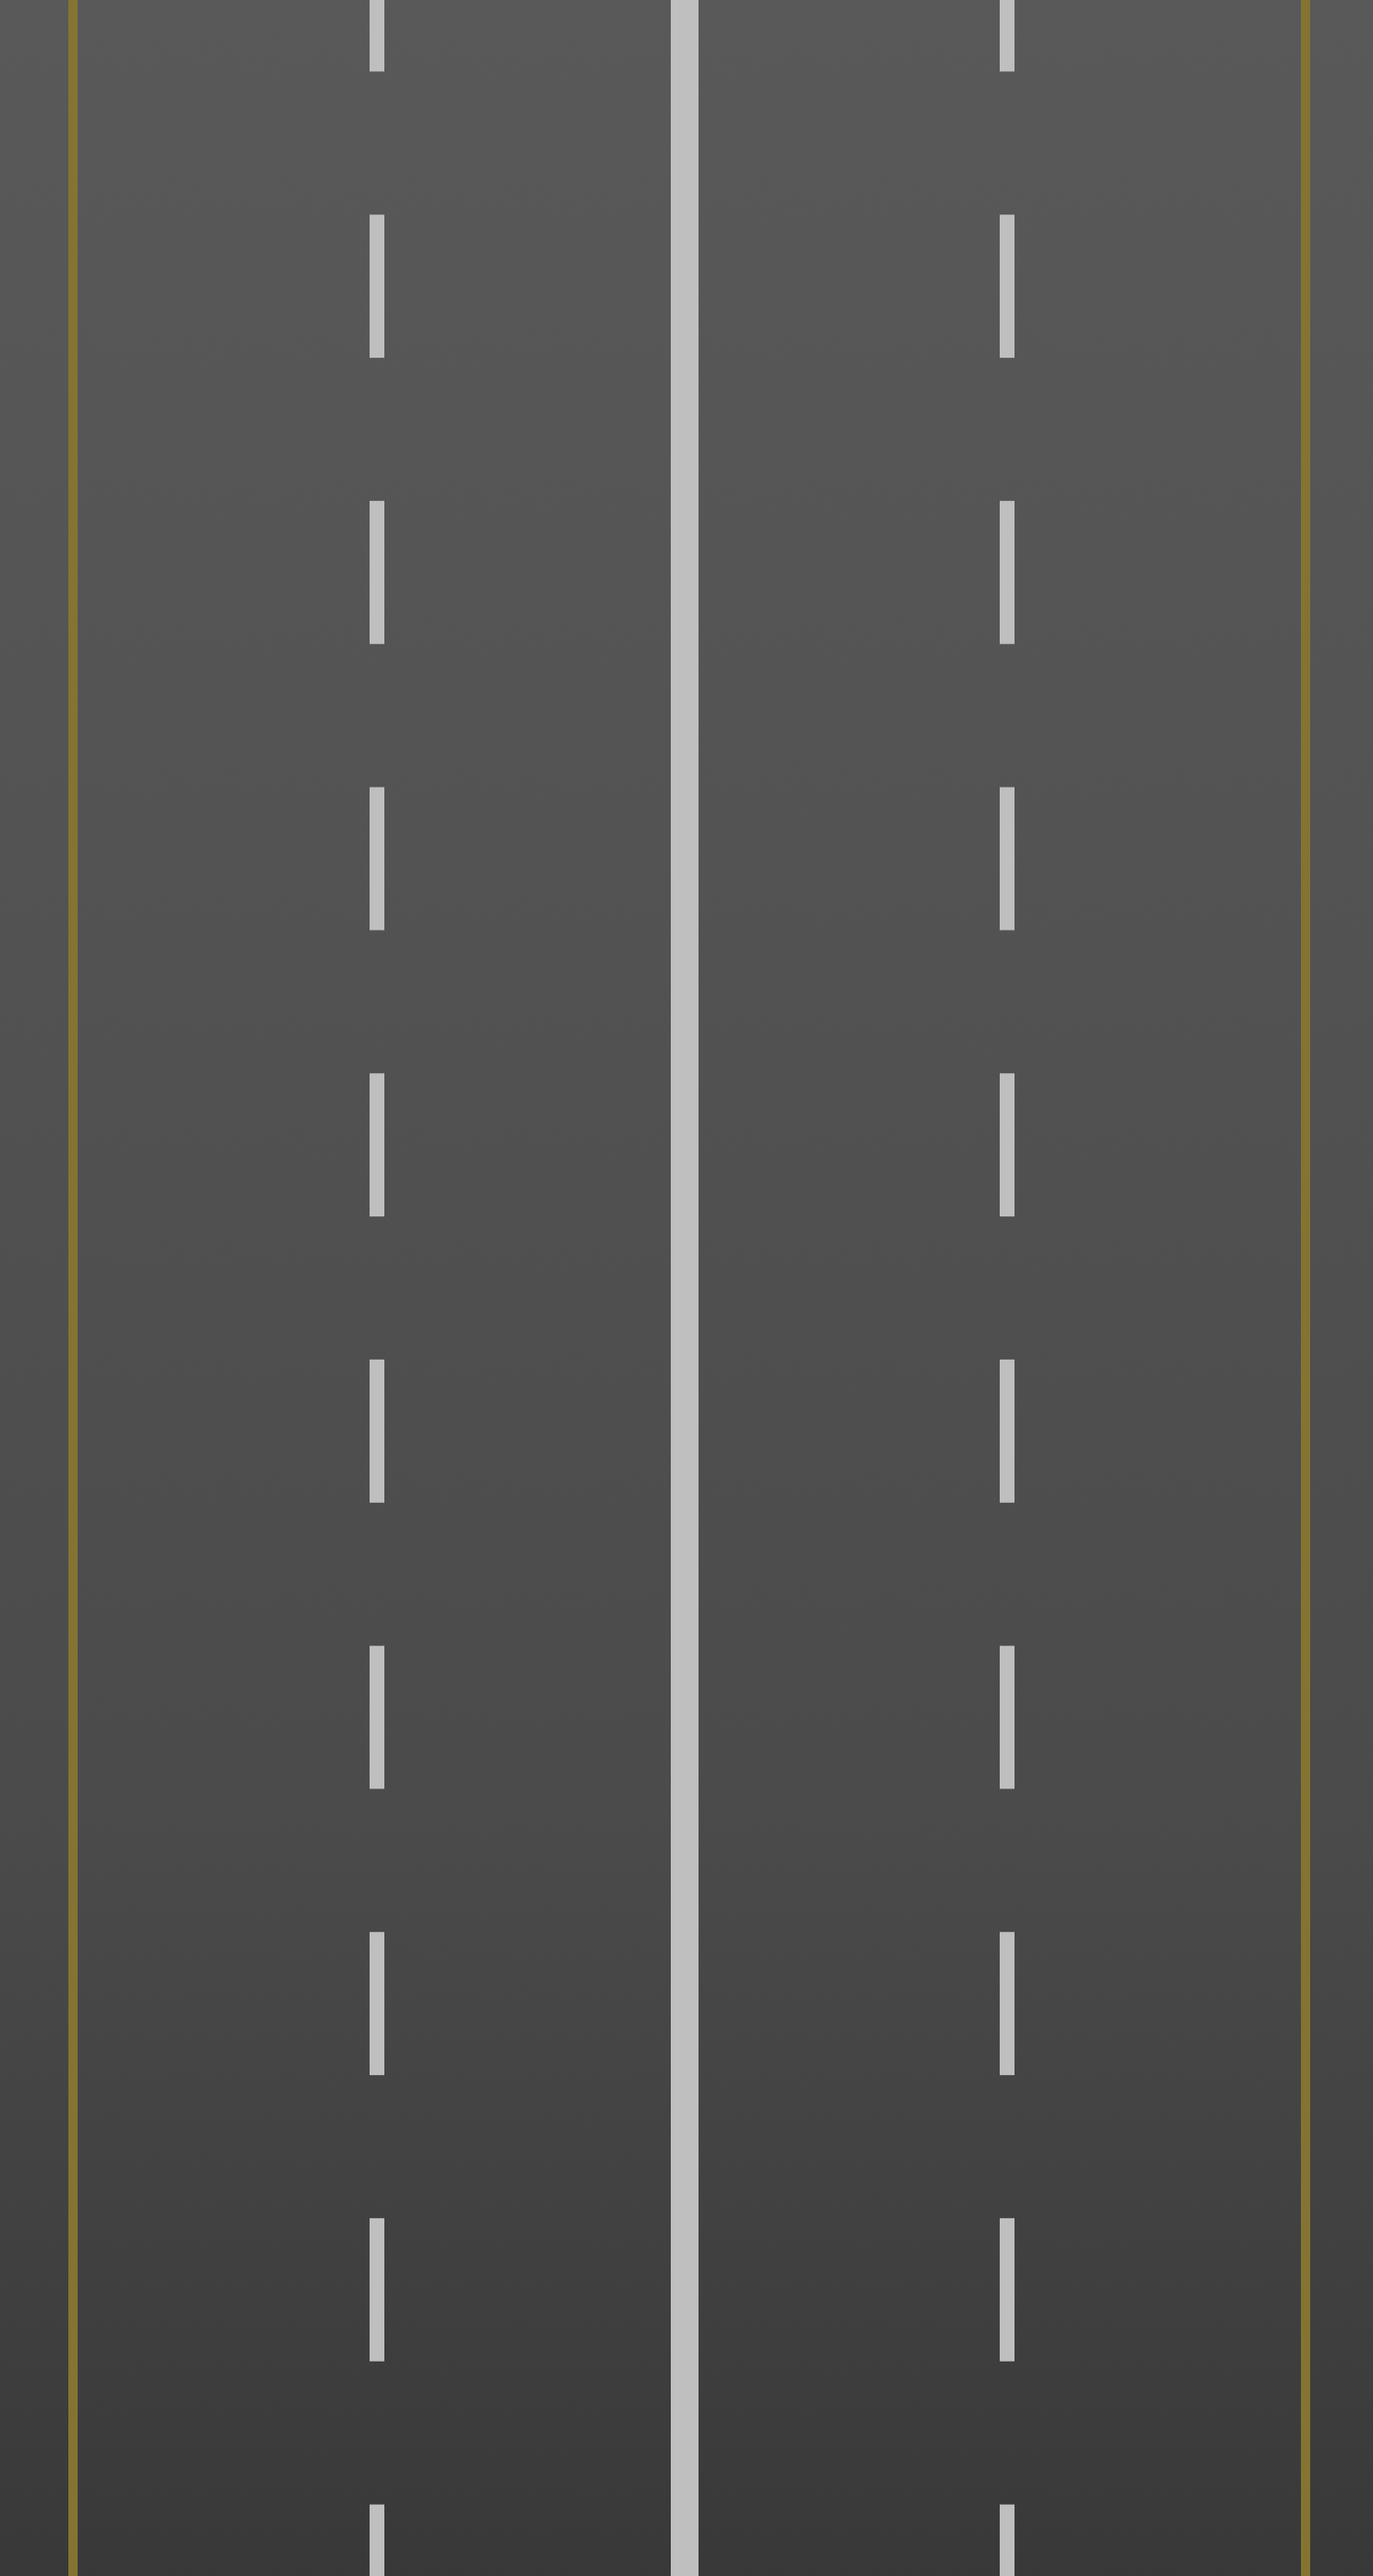
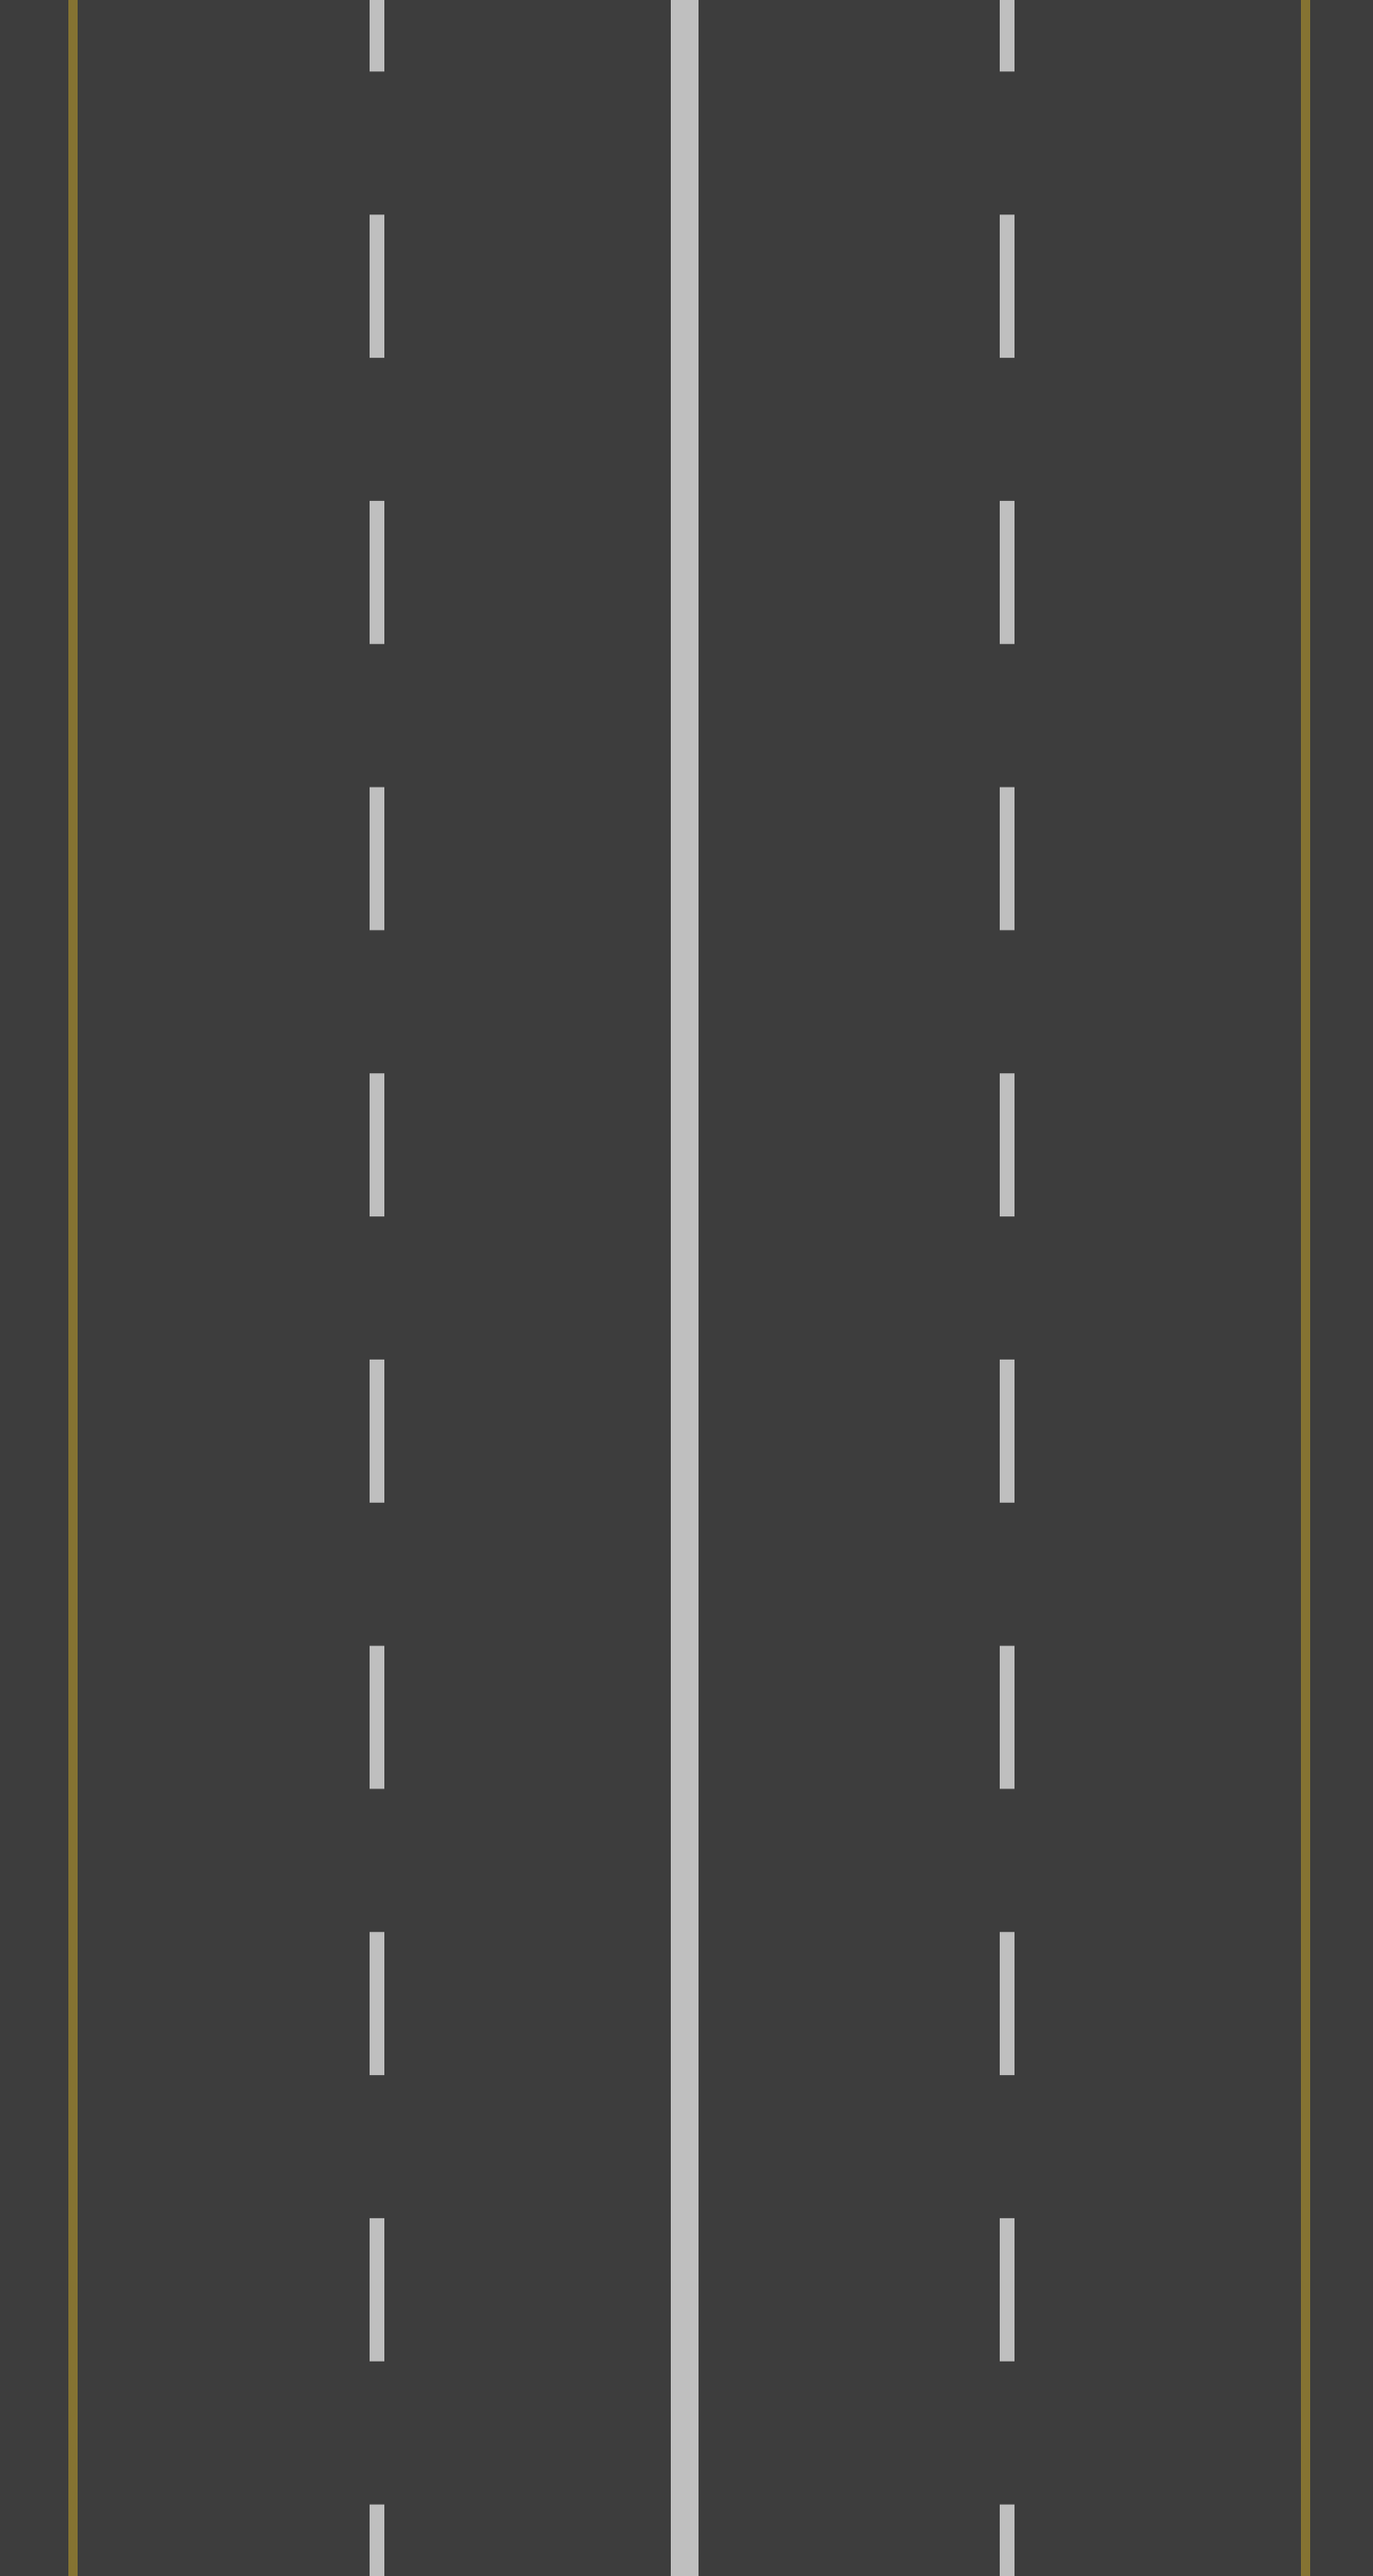
update bg

Changed region(s): [[0.0, 0.0, 1.0, 0.2185]]

diff --git a/script.js b/script.js
@@ -2,12 +2,13 @@ let playGame = true;
 const $gameFrame = document.getElementById("frame");
 
 const car = {
-  x: 210,
-  y: screen.availHeight - 240,
+  x: 154,
+  y: 300,
   speed: 30,
 };
 
 const $car = document.createElement("div");
+
 $car.style.width = "80px";
 $car.style.height = "138px";
 $car.style.position = "absolute";
@@ -32,25 +33,9 @@ function moveRight() {
   }
 }
 
-function moveUp() {
-  if (car.y >= car.speed) {
-    car.y += car.speed * -1;
-    $car.style.top = car.y + "px";
-  }
-}
-
-function moveDown() {
-  if (car.y <= screen.availHeight - 200) {
-    car.y += car.speed;
-    $car.style.top = car.y + "px";
-  }
-}
-
 function moveCar(keyCodeNumber) {
   const LEFT = 37,
-    UP = 38,
-    RIGHT = 39,
-    DOWN = 40;
+    RIGHT = 39;
 
   switch (keyCodeNumber) {
     case LEFT:
@@ -58,13 +43,6 @@ function moveCar(keyCodeNumber) {
       break;
     case RIGHT:
       moveRight();
-      break;
-    case UP:
-      moveUp();
-      break;
-
-    case DOWN:
-      moveDown();
       break;
 
     default:
@@ -88,7 +66,7 @@ const incomingCars = [];
 function createIncomingCar(gap) {
   const properties = {
     x: gap,
-    y: -200,
+    y: screen.availHeight + 240,
     speed: 6,
   };
 
@@ -97,7 +75,7 @@ function createIncomingCar(gap) {
   $incomingCar.style.width = "68px";
   $incomingCar.style.height = "138px";
   $incomingCar.style.position = "absolute";
-  $incomingCar.style.top = properties.y + "px";
+  $incomingCar.style.bottom = properties.y + "px";
   $incomingCar.style.left = properties.x + "px";
 
   $incomingCar.style.backgroundImage = "url('./image/incoming-car-1.png')";
@@ -109,12 +87,23 @@ function createIncomingCar(gap) {
   incomingCars.push($incomingCar);
 }
 
+const bg = {
+  scrollX: 1,
+  speed: 3,
+};
+
+function updateBGPosition() {
+  bg.scrollX += 6;
+  $gameFrame.style.backgroundPosition = "100% " + bg.scrollX + "px";
+}
+
 let count = 70;
 let variation = 40;
 let positions = [40, 154, 268, 382];
 
 function animate() {
   updateIncomingCarsPosition();
+  updateBGPosition();
 
   if (count === 70) {
     count = 0;
@@ -136,9 +125,9 @@ animate();
 
 function updateIncomingCarsPosition() {
   incomingCars.forEach(($car, i) => {
-    $car.properties.y += $car.properties.speed;
+    $car.properties.y -= $car.properties.speed;
 
-    if ($car.properties.y >= screen.availHeight) {
+    if ($car.properties.y <= -200) {
       incomingCars.splice(i, 1);
       $gameFrame.removeChild($car);
     } else {
@@ -148,9 +137,16 @@ function updateIncomingCarsPosition() {
   });
 }
 
-function distance($incomingCar) {
-  let dx = $incomingCar.properties.x - car.x;
-  let dy = $incomingCar.properties.y - car.y;
+function distance(incomingCar) {
+  let dx = incomingCar.properties.x - car.x;
+  let dy = incomingCar.properties.y - car.y;
+
+  //   return (
+  //     car.x < incomingCar.x + 68 &&
+  //     car.x + 68 > incomingCar.x &&
+  //     car.y < incomingCar.y + 138 &&
+  //     car.y + 123 > incomingCar.y
+  //   );
 
   return Math.sqrt(dx * dx + dy * dy);
 }
